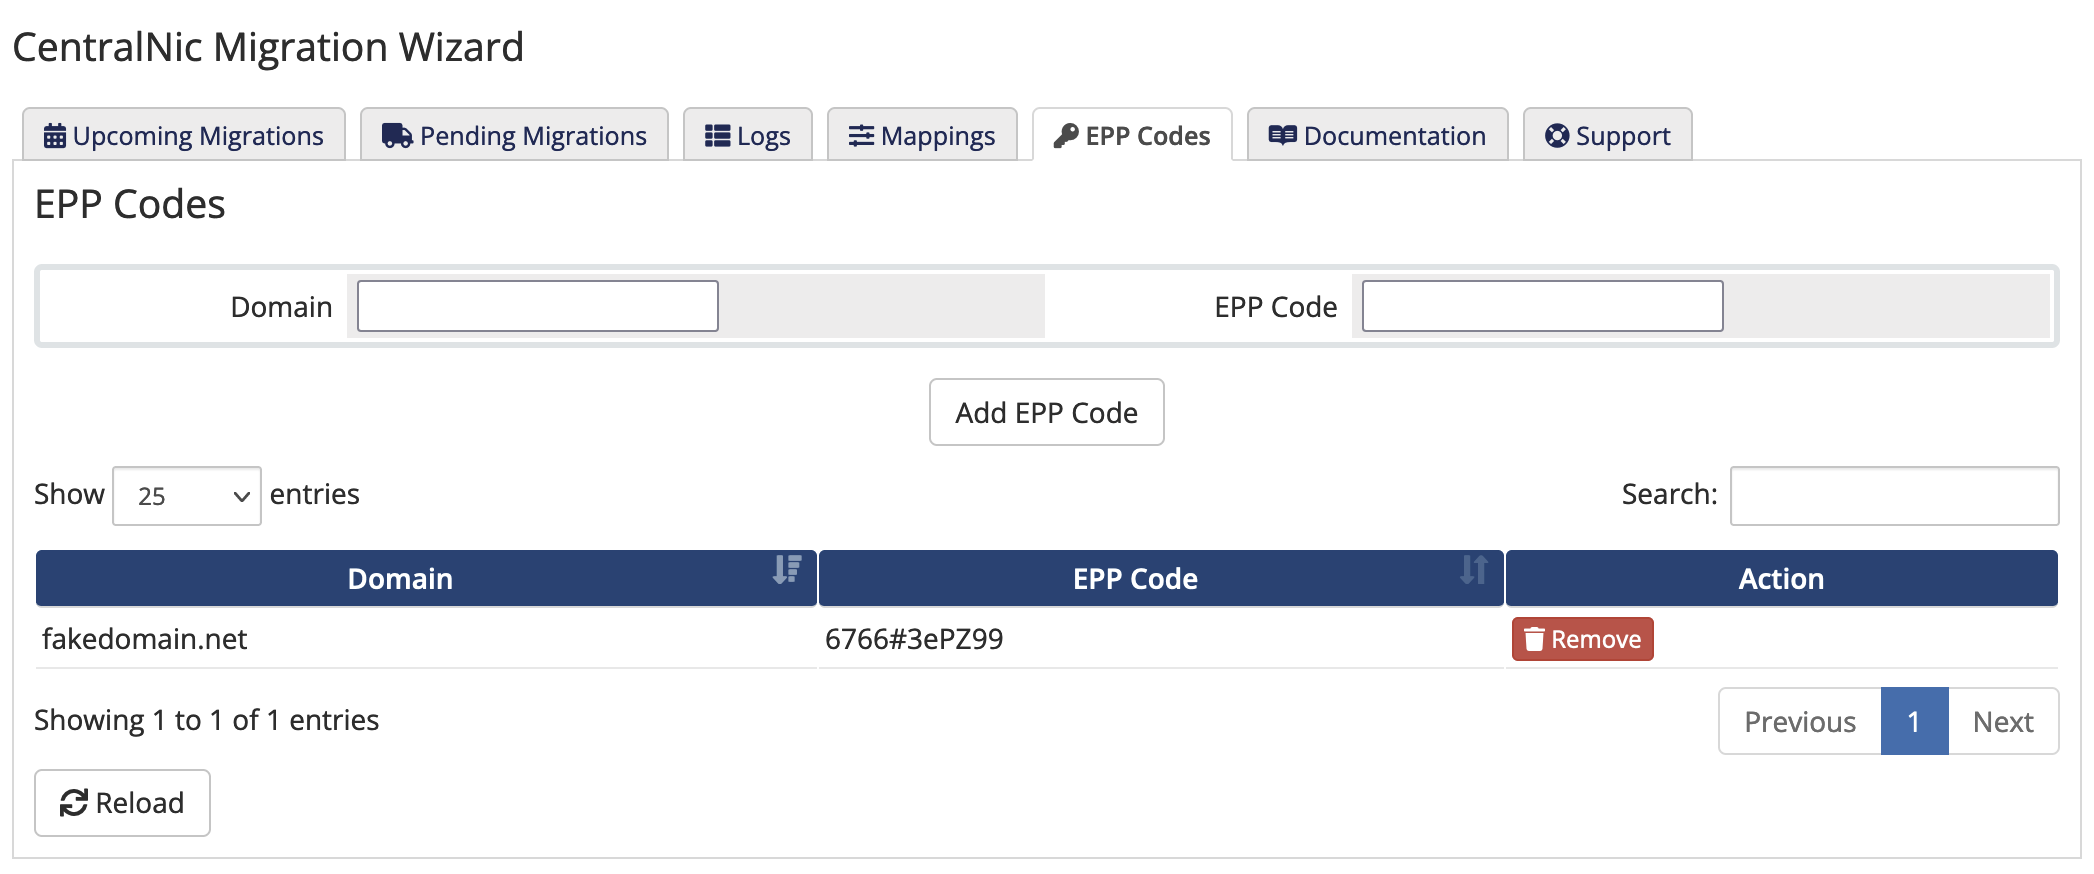
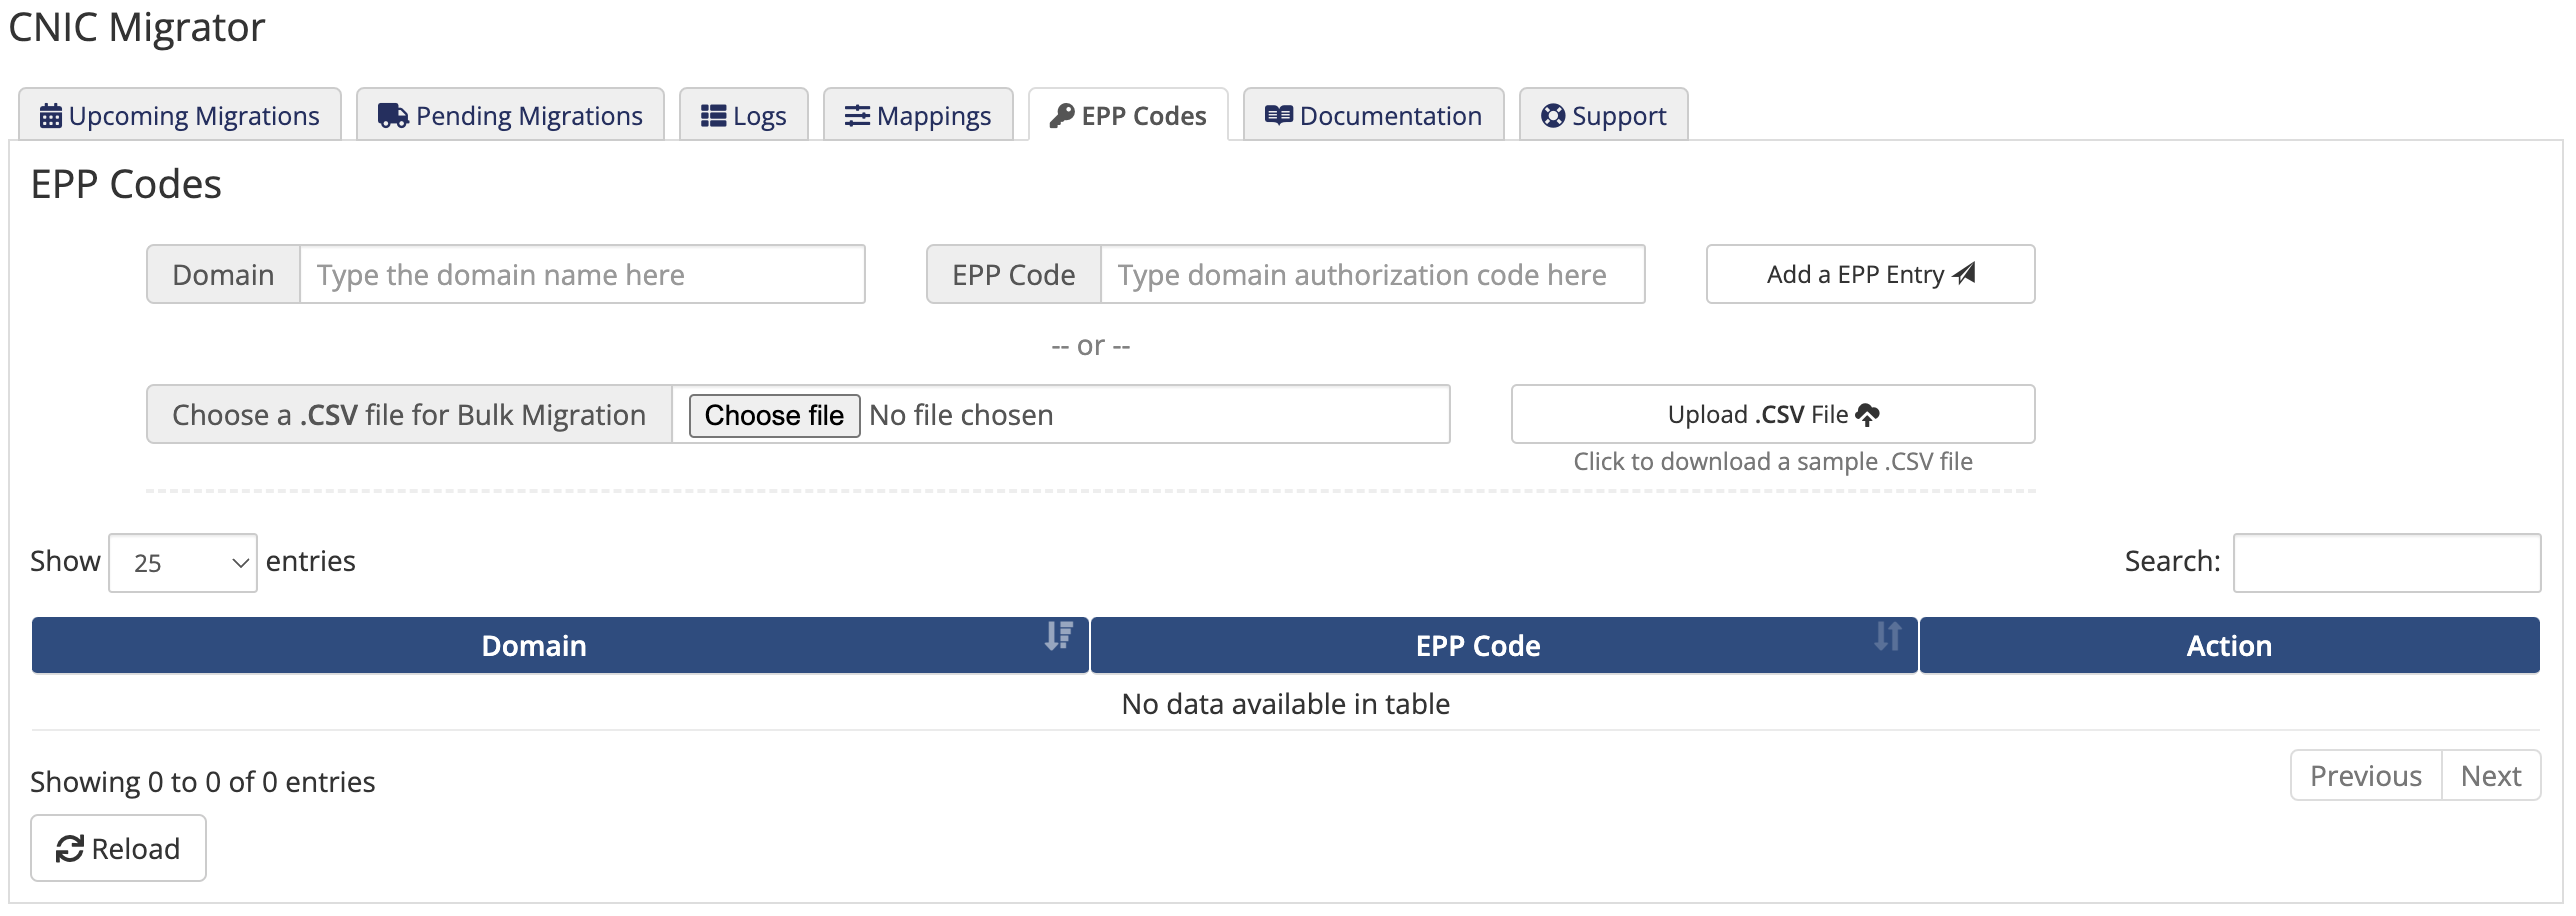
docs(migrator addon): update migrator addon documentation

Changed region(s): [[0.0, 0.0, 1.0, 0.9886], [0.6208, 0.4943, 0.776, 0.5252], [0.6519, 0.4325, 0.745, 0.4634]]

diff --git a/_includes/whmcs-migration.md b/_includes/whmcs-migration.md
@@ -51,8 +51,6 @@ Premium Domains: As of a bug WHMCS solved with v7.8, any premium domain register
 
 **Don't touch files where the filename starts with `dist.*`. That are default files and templates, partially used as fallback or within automated tests. Follow the below instructions to get this tool correctly up and running.**
 
-{% include whmcs-bundle-upgrade.md %}
-
 Finally, navigate to `Configuration > System Settings > Addon Modules` in your WHMCS Admin Area, then click on `Activate` next to the `CNIC Migrator` listing.
 
 ### Re-Configure WHMCS
@@ -94,7 +92,7 @@ In the WHMCS Admin Area, navigate to `Addons > CNIC Migrator`, then click on the
 
 ![adminareaerror]({{ 'assets/images/whmcs/cnic-migration/mappings.png' | relative_url }})
 
-Here you can define your desired mappings, specifying the desired losing and gaining registrars, any specific TLD, and wether the migrator should automatically retrieve the EPP auth codes via the losing registrar's WHMCS module.
+Here you can define your desired mappings, specifying the desired losing and gaining registrars, any specific TLD, and wether the migrator should automatically retrieve the EPP auth codes via the losing registrar's WHMCS module. You can also specify which e-mail template you want to use for client notifications.
 
 ### EPP/Authorization Codes
 
@@ -103,6 +101,7 @@ The migrator will attempt to retrieve the EPP code automatically via the losing 
 Some registrars however, do not support this functionality. Their module will return an error, but send the code out to the current registrant's email address instead. So, not reliable for real-time processing. A good example is the registrar Enom.
 
 As a workaround, you should get hold of the EPP codes manually (for example by requesting it and having your customer send you the code they recieve via e-mail). Then, you can specify those EPP codes beforehand in the `EPP Codes` tab in the Addon.
+You may also upload a CSV file containing a list of domains with their respective EPP codes.
 
 ![adminareaerror]({{ 'assets/images/whmcs/cnic-migration/epp.png' | relative_url }})
 
@@ -118,64 +117,23 @@ By default this tool is also sending mails to you, the reseller, to allow a bit 
 
 ### Client Email Templates
 
-This migration tool comes with a `default` email template in english that will be used for mail-out to **your clients**. You can define more languages, customized subjects and messages, as well as TLD-specific messages. Later, you can check the `System Email Message Log` in WHMCS for mails sent to your clients and view them.
+This migration tool comes with a `MIGRATION_DEFAULT` email template in english that will be used for mail-out to **your clients**.
+When adding a new mapping, or editing an existing one, you can select the `*Generate new*` option, which will generate a new template.
 
-The `default` configuration entry is always used as fallback, see below. **Important is to have that empty string array key entry which represents the case "no language set"**. Without this entry the email template won't work in WHMCS as WHMCS by default selects email templates using language filter set to empty string.
+You may customize and translate any template via the WHMCS built-in Email Templates functionality.
 
-The configuration file `dist.configuration.json` contains the mappings to the email templates.
-Here is an example:
-
-```json
-{
-  "templates": {
-    "default": {
-      // <-- the default configuration entry
-      "": {
-        // <-- this one is important, just reuse the english template
-        "subject": "{$resellerLabel}: Change of domain provider for your domain {$domain_name}",
-        "file": "tpl_client_default_english.tpl"
-      },
-      "english": {
-        "subject": "{$resellerLabel}: Change of domain provider for your domain {$domain_name}",
-        "file": "tpl_client_default_english.tpl"
-      },
-      "french": {
-        "subject": "{$resellerLabel}: Changement de fournisseur de domaine pour votre domaine {$domain_name}",
-        "file": "tpl_client_default_french.tpl"
-      }
-    },
-    "com": {
-      "": {
-        // <-- this one is important, just reuse the english template
-        "subject": "{$resellerLabel}: Change of domain provider for your .COM domain {$domain_name}",
-        "file": "tpl_client_com_english.tpl"
-      },
-      "english": {
-        "subject": "{$resellerLabel}: Change of domain provider for your .COM domain {$domain_name}",
-        "file": "tpl_client_com_english.tpl"
-      },
-      "french": {
-        "subject": "{$resellerLabel}: Changement de fournisseur de domaine pour votre .COM domaine {$domain_name}",
-        "file": "tpl_client_com_french.tpl"
-      }
-    }
-  }
-}
-```
+Later, you can check the `System Email Message Log` in WHMCS for mails sent to your clients and view them.
 
 ### Email Templates Customization
 
 How to proceed:
 
-1. Rename all `templates/email/dist.*.tpl` files by removing the `dist.` at the front, e.g. `dist.tpl_client_default_english.tpl ----> tpl_client_default_english.tpl`.
-2. Rename `dist.configuration.json` to `configuration.json`. This is to avoid upgrade issues in future as upgrading will just overwrite the `dist.*` files and not your custom files.
-3. Adapt the `file` entries in `configuration.json` (do not provide a path - just the filename)
-4. Modify the .tpl files at your discretion.
+1. In the WHMCS Admin Area, go to `System Settings`
+2. Open the `Email Templates` page
+3. You will find the templates in the `Domain Messages` section and marked as `CUSTOM`.
+4. Edit the template you want to customize.
 
-NOTE: There's no need to provide a full HTML template structure including head and body in the template files, just the HTML code part you need.
-
-Even though the templates are HTML files, they are finally processed in WHMCS as [Smarty](https://www.smarty.net/docs/en/) templates and allow therefore the use of variables. This follows the principles of Smarty Syntax to use e.g. `{$someVariable}`.
-
+The templates allow the use of variables. This follows the principles of Smarty Syntax to use e.g. `{$someVariable}`.
 The following variable names are available for the client email templates:
 
 - `{$id}`: The internal ID of your domain in WHMCS (indexed no.)
@@ -255,7 +213,7 @@ $_ADDONLANG = [
 
 The migration tool will append an error identifier to make it more transparent which kind of error might have happened, e.g. `Domain Migration to the new subcontractor. Don't renew the domain.[ERROR_CONFIG]`.
 
-- `[ERROR_CONFIG:...some reason...]`: Configuration file `migration/configuration.json` couldn't be loaded (missing or invalid json). Further Details provided.
+- `[ERROR_CONFIG:...some reason...]`: Issue with module configuration. Further Details provided.
 - `[ERROR_DOMAIN_DATA]`: Domain Data couldn't be loaded over WHMCS - should never happen
 - `[ERROR_AUTH_CODE:...some reason...]`: Getting the EPP/Authorization code of the domain did not work. Further Details provided.
 - `[ERROR_REG_MODULE]`: Loading the gaining registrar's registrar module failed or the module is not activated or not integrating the `TransferDomain` method
